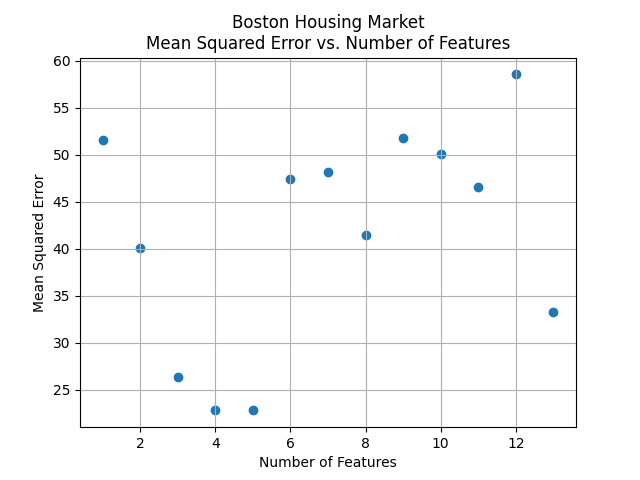
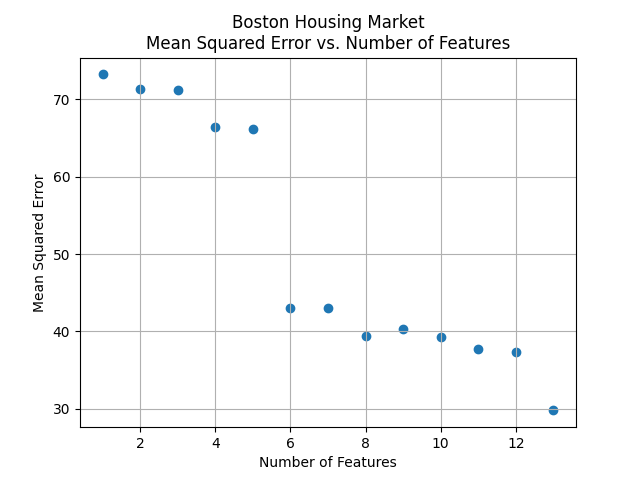
Comments

diff --git a/problem1.py b/problem1.py
@@ -1,4 +1,24 @@
-# %%
+# File Name:  problem1.py
+# Author:     Stephen Campbell, Alexandra Danhof, Kristi Doleh
+# NetID:      sac170630, and170130, kxd170004
+# Team:       ML Group 4
+# Date:       03/03/2022
+# Version:    Python 3.9
+#
+# Copyright:  2022, All Rights Reserved
+#
+# Description:
+#    Written for ML Group 4 Homework 1 Problem 1.
+#    This file reads in a dataset for Wisconson Breast
+#    Cancer and divides into training, test, and validation sets.
+#    A Logistical Regression (LogReg) model is created to perform binary
+#    classification on the dataset. The program then repeat this
+#    process using an SVM classifier with both linear and gaussian
+#    kernels.
+#
+
+
+# import all necessary files
 from sklearn import svm
 from sklearn.datasets import load_breast_cancer
 from sklearn.linear_model import LogisticRegression
@@ -7,34 +27,29 @@ from sklearn.model_selection import train_test_split
 import matplotlib.pyplot as plt
 from sklearn.pipeline import make_pipeline
 from sklearn.preprocessing import StandardScaler
-
-
 from util import save_fig_to_images
-# %%
+
+
+# load necessary data for dataset into training and
+# test sets
 X, y = load_breast_cancer(return_X_y=True)
 X_train, X_test, y_train, y_test = train_test_split(X, y, random_state=0)
 
-# %% [markdown]
-#  (i)
-# Create a Logistic Regression (LogReg) model using all the features to perform
-# binary classification # on this dataset.
 
-# Use the code in the notebook file on eLearning for Logistic Regression as a hint.
-
-# Split the data into training and test sets and use the training set to train
-# your model.
-
-# Print the recall and precision values on test the test set. Use the test set to plot confusion matrix as well.
-# (hint: SVM example on eLearning)
-# %%
-
-
+#
+# Function Name: part_i
+# Description: Function creating LogReg model to
+# perform binary classification and print the
+# recall/precision values and confusion matrix.
+# Inputs: clf and name of model
+# Outputs: recall/precision values and confusion matrix
+#
 def part_i(clf, model_name):
     pipe = make_pipeline(StandardScaler(), clf)
     pipe.fit(X_train, y_train)
     y_test_pred = pipe.predict(X_test)
     test_precision, tst_recall, _, _ = precision_recall_fscore_support(
-        y_test, y_test_pred, labels=pipe.classes_)
+        y_test, y_test_pred, labels=pipe.classes_, average='binary')
 
     print(model_name)
     print('labels', pipe.classes_)
@@ -51,13 +66,19 @@ def part_i(clf, model_name):
     save_fig_to_images(f'ConfusionMatrix-{model_name}.png')
 
 
+# function call to get results from part 1
 part_i(LogisticRegression(), 'Logistic Regression')
 
-# %% [markdown]
-# (ii) Create 30 LogReg models by incrementally changing the number of features.
-# %%
 
-
+#
+# Function Name: part_ii
+# Description: Function creating 30 LogReg model
+# by incrementally changing the number of features.
+# Then plotting the recall vs features & precision vs
+# features plots.
+# Inputs: clf and name of model
+# Outputs: plots for recall vs features and precision vs features
+#
 def part_ii(clf, model_name):
     precisions = []
     recalls = []
@@ -86,20 +107,20 @@ def part_ii(clf, model_name):
     save_fig_to_images(f'MetricVsFeatures-{model_name}.png')
 
 
+# function call to get results from part 2
 part_ii(LogisticRegression(), 'Logistic Regression')
-# %%
 
-# %% [markdown]
 
 # (iii) Repeat (i) and (ii) using an SVM classifier with linear kernel
-# %%
+
+# call both part 1 and part 2 with linear kernel
 part_i(svm.SVC(kernel='linear'), 'SVM - Linear Kernel')
 part_ii(svm.SVC(kernel='linear'), 'SVM - Linear Kernel')
 # %%
 
-# %% [markdown]
+
 # (iv) Repeat (i) and (ii) using an SVM classifier with gaussian kernel
 
+# call both part 1 and part 2 with linear kernel
 part_i(svm.SVC(kernel='rbf'), 'SVM - Gaussian Kernel')
 part_ii(svm.SVC(kernel='rbf'), 'SVM - Gaussian Kernel')
-# %%

diff --git a/problem2.py b/problem2.py
@@ -1,24 +1,47 @@
-# %%
+# File Name:  problem2.py
+# Author:     Stephen Campbell, Alexandra Danhof, Kristi Doleh
+# NetID:      sac170630, and170130, kxd170004
+# Team:       ML Group 4
+# Date:       03/03/2022
+# Version:    Python 3.9
+#
+# Copyright:  2022, All Rights Reserved
+#
+# Description:
+#    Written for ML Group 4 Homework 1 Problem 2.
+#    This file reads in a dataset for Boston housing prices
+#    and performs prediction using Linear Regression using the
+#    13 features. The program will create a simple model using
+#    only a single feature before moving to create multiple
+#    regression models using a combination of the given features.
+#    The program will display the mse vs features curves for the
+#    different models.
+#
+
+
+# import all necessary files
 from sklearn.datasets import load_boston
 from sklearn.linear_model import LinearRegression
 from sklearn.metrics import mean_squared_error
+from sklearn.model_selection import train_test_split
 import matplotlib.pyplot as plt
 from util import save_fig_to_images
-# %%
+
+# load necessary data for dataset into training and
+# test sets
 X, y = load_boston(return_X_y=True)
-NUM_TST = 101
-trn_X = X[:-NUM_TST, :]
-trn_y = y[:-NUM_TST]
-tst_X = X[-NUM_TST:, :]
-tst_y = y[-NUM_TST:]
 
-# %% [markdown]
-# Create a simple Linear Regression model using only the first feature. Print
-# the accuracy (mse) and  plot the results similar to the example found below
-#  (you will see this example in the class):
-# %%
+trn_X, tst_X, trn_y, tst_y = train_test_split(X, y, random_state=0)
 
 
+#
+# Function Name: determine_mse_for_n_features
+# Description: Function creating Linear Regression model
+# using n amount of features. It will display the
+# accuracy (mse) and plot results.
+# Inputs: features n
+# Outputs: accuracy (mse) and plot results
+#
 def determine_mse_for_n_features(n):
     clf = LinearRegression().fit(trn_X[:, :n], trn_y)
     tst_pred_y = clf.predict(tst_X[:, :n])
@@ -26,14 +49,22 @@ def determine_mse_for_n_features(n):
     return mse
 
 
+# function call to get results from part 1
 print(f'MSE using 1 feature : {determine_mse_for_n_features(1)}')
-# %%
 
+
+# function call to get results from part 2
 print(f'MSE using 13 features : {determine_mse_for_n_features(13)}')
 
-# %%
 
-
+#
+# Function Name: part_iii
+# Description: Function creating 13 MLR models
+# by incrementally changing number of features.
+# It will display the accuracy (mse) vs features curve.
+# Inputs: none
+# Outputs: mse vs features curve
+#
 def part_iii():
     num_features = list(range(1, 14))
     mse_array = [determine_mse_for_n_features(i) for i in num_features]
@@ -47,6 +78,5 @@ def part_iii():
     save_fig_to_images('MSEvsNumFeatures.png')
 
 
+# function call to get results from part 3
 part_iii()
-
-# %%
